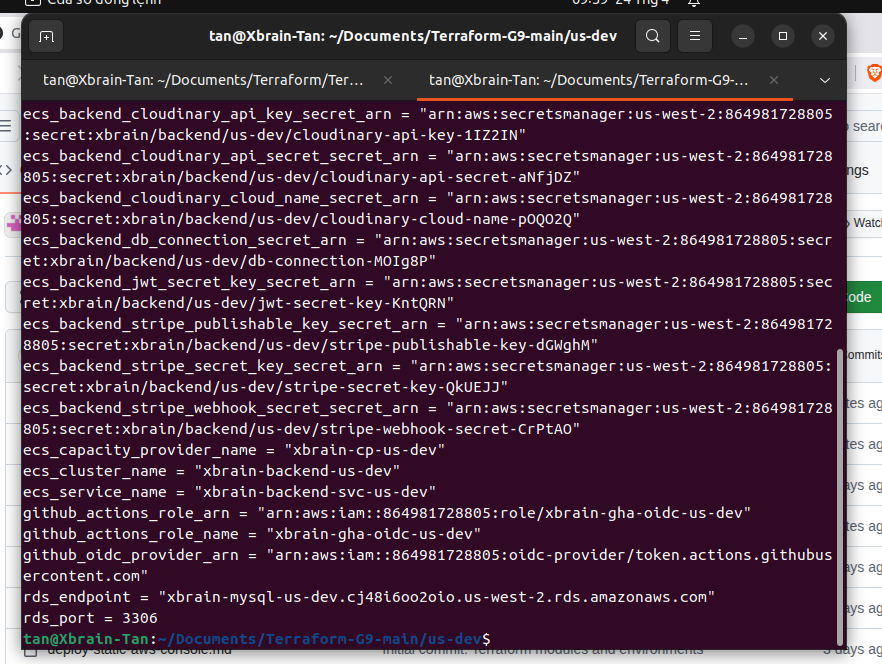
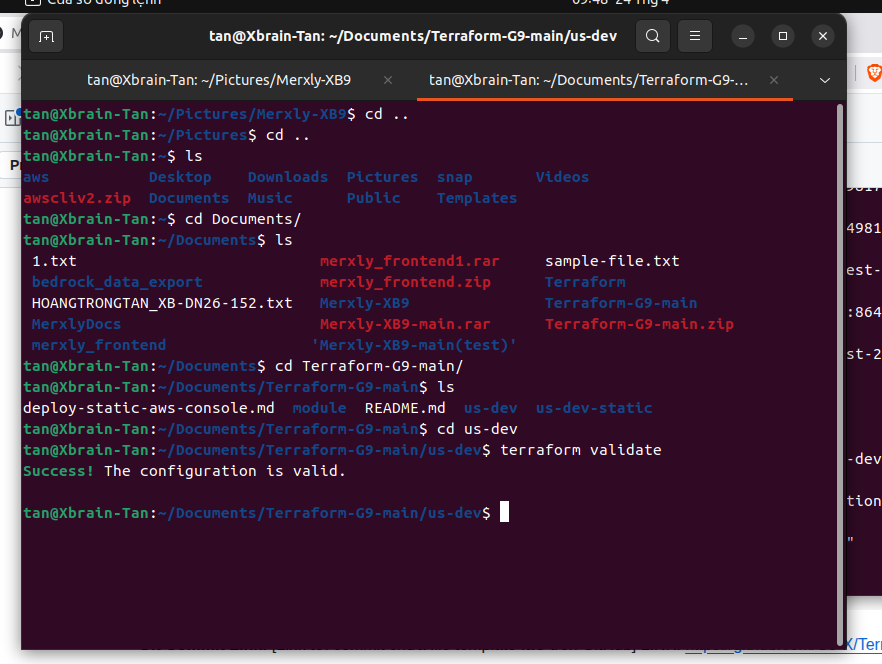
edit evidance

diff --git a/docs/W3_evidence.md b/docs/W3_evidence.md
@@ -149,7 +149,10 @@ EC2 được sử dụng để thử kết nối TCP đến endpoint Amazon RDS 
   
   ```
   
+ 
+  
   ![Bonus Terraform](./images/8_bonus/terraform_validate.png)
+  ![Bonus Terraform 2](./images/8_bonus/terraform_output.png)
   
 * **Git Commit Link:** [Link tới commit chứa file template IaC trên GitHub]
 LINK: https://github.com/G9-X/Terraform-G9
